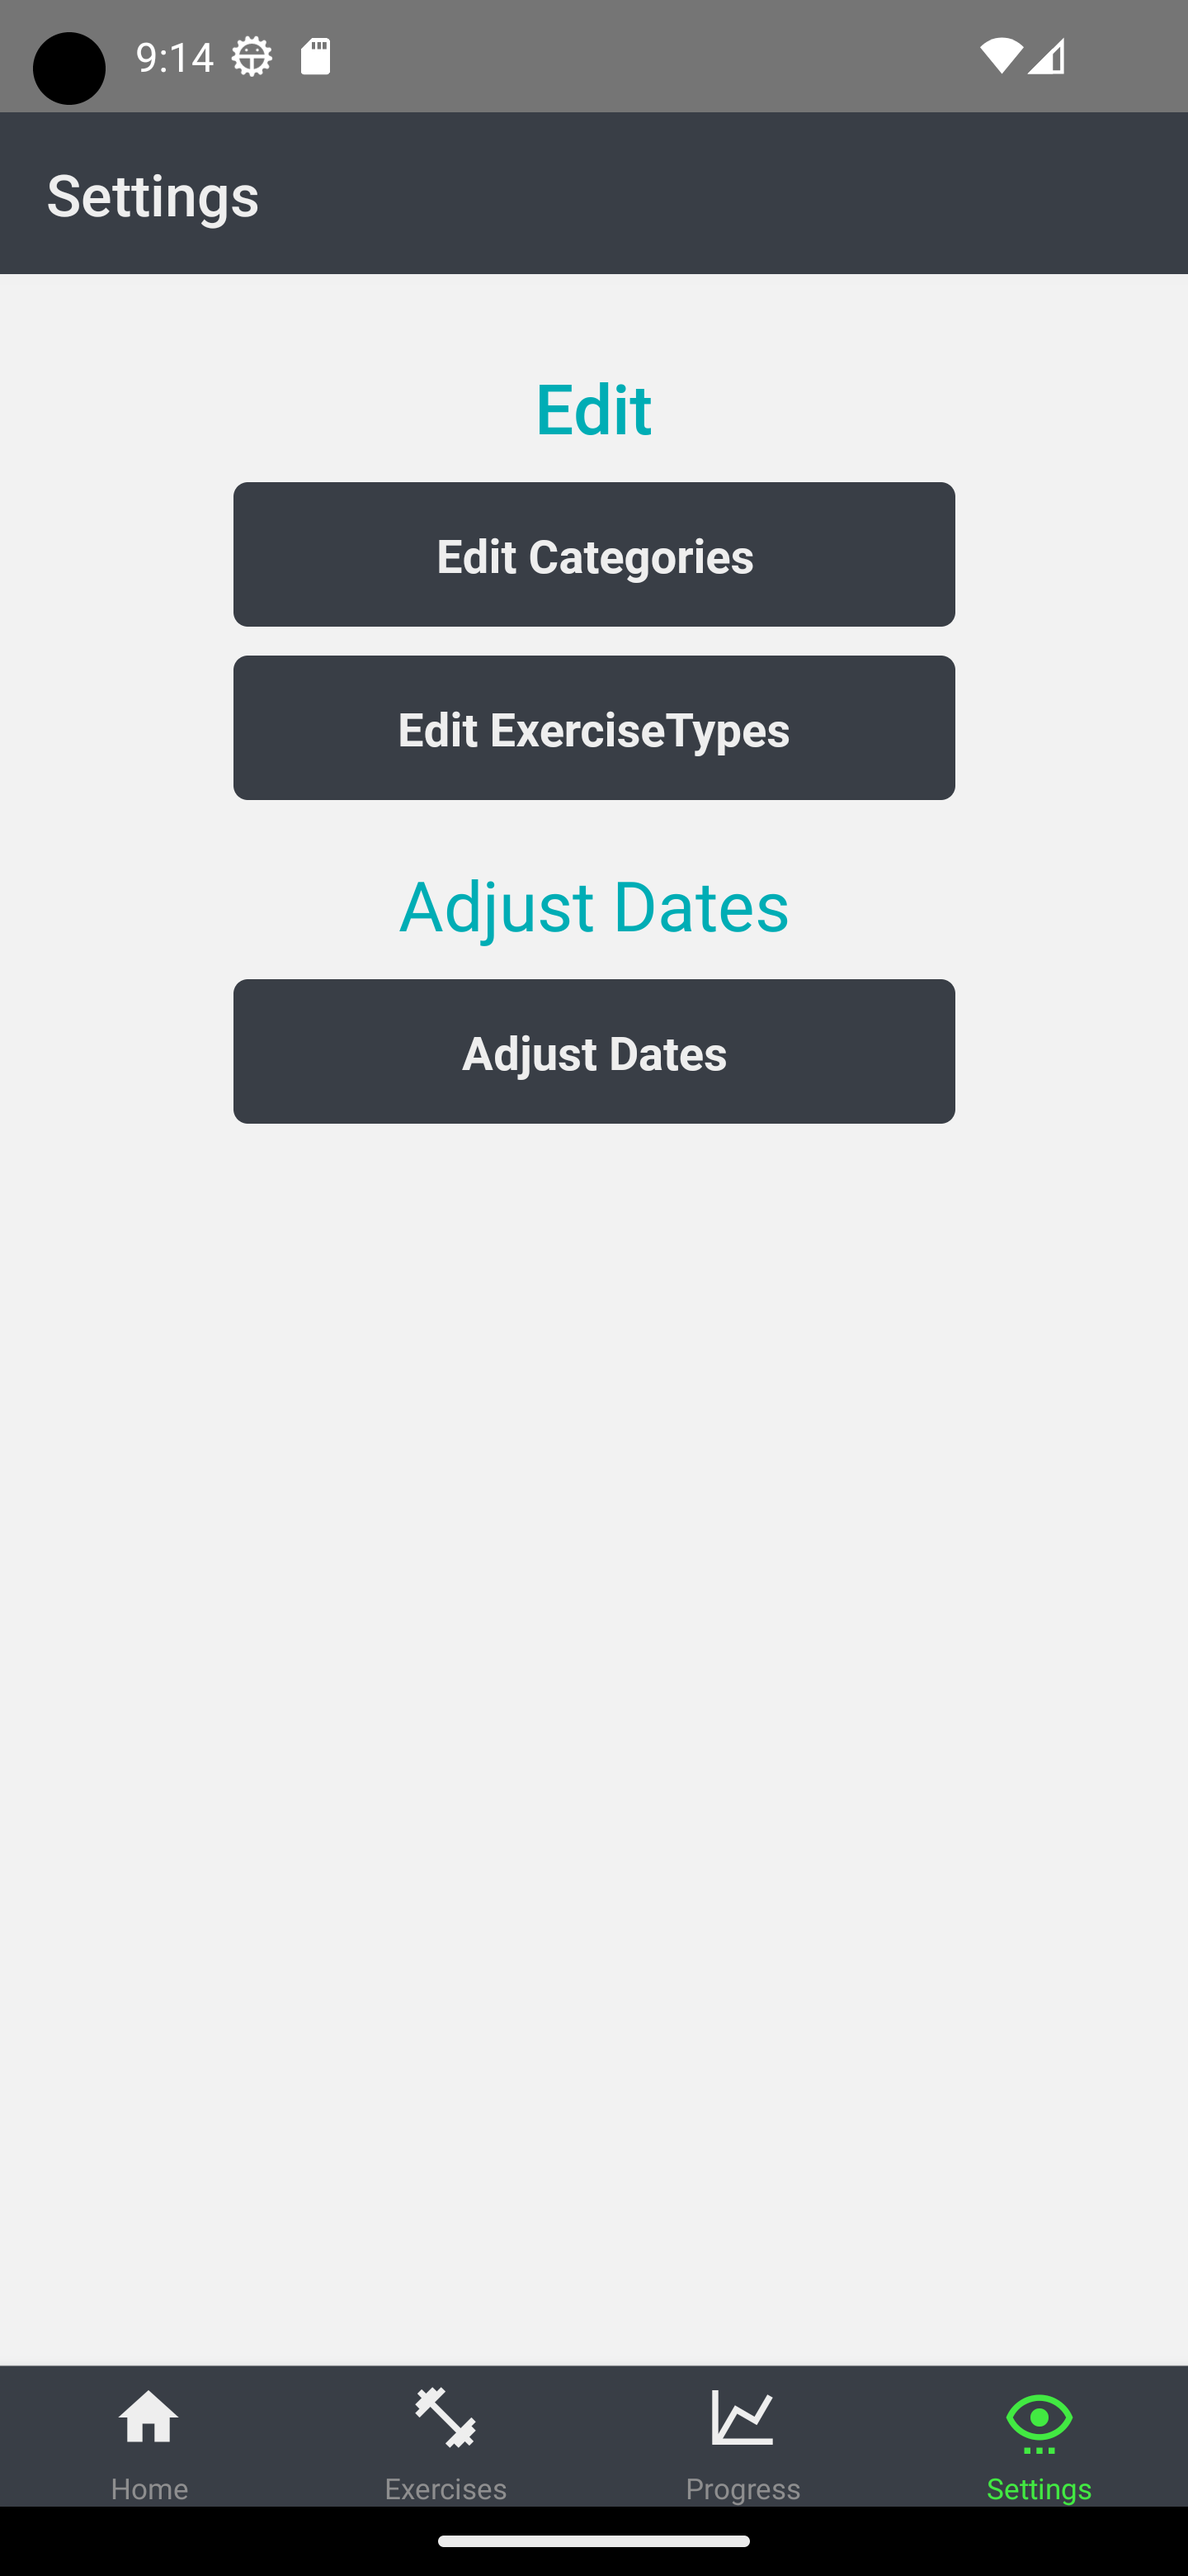
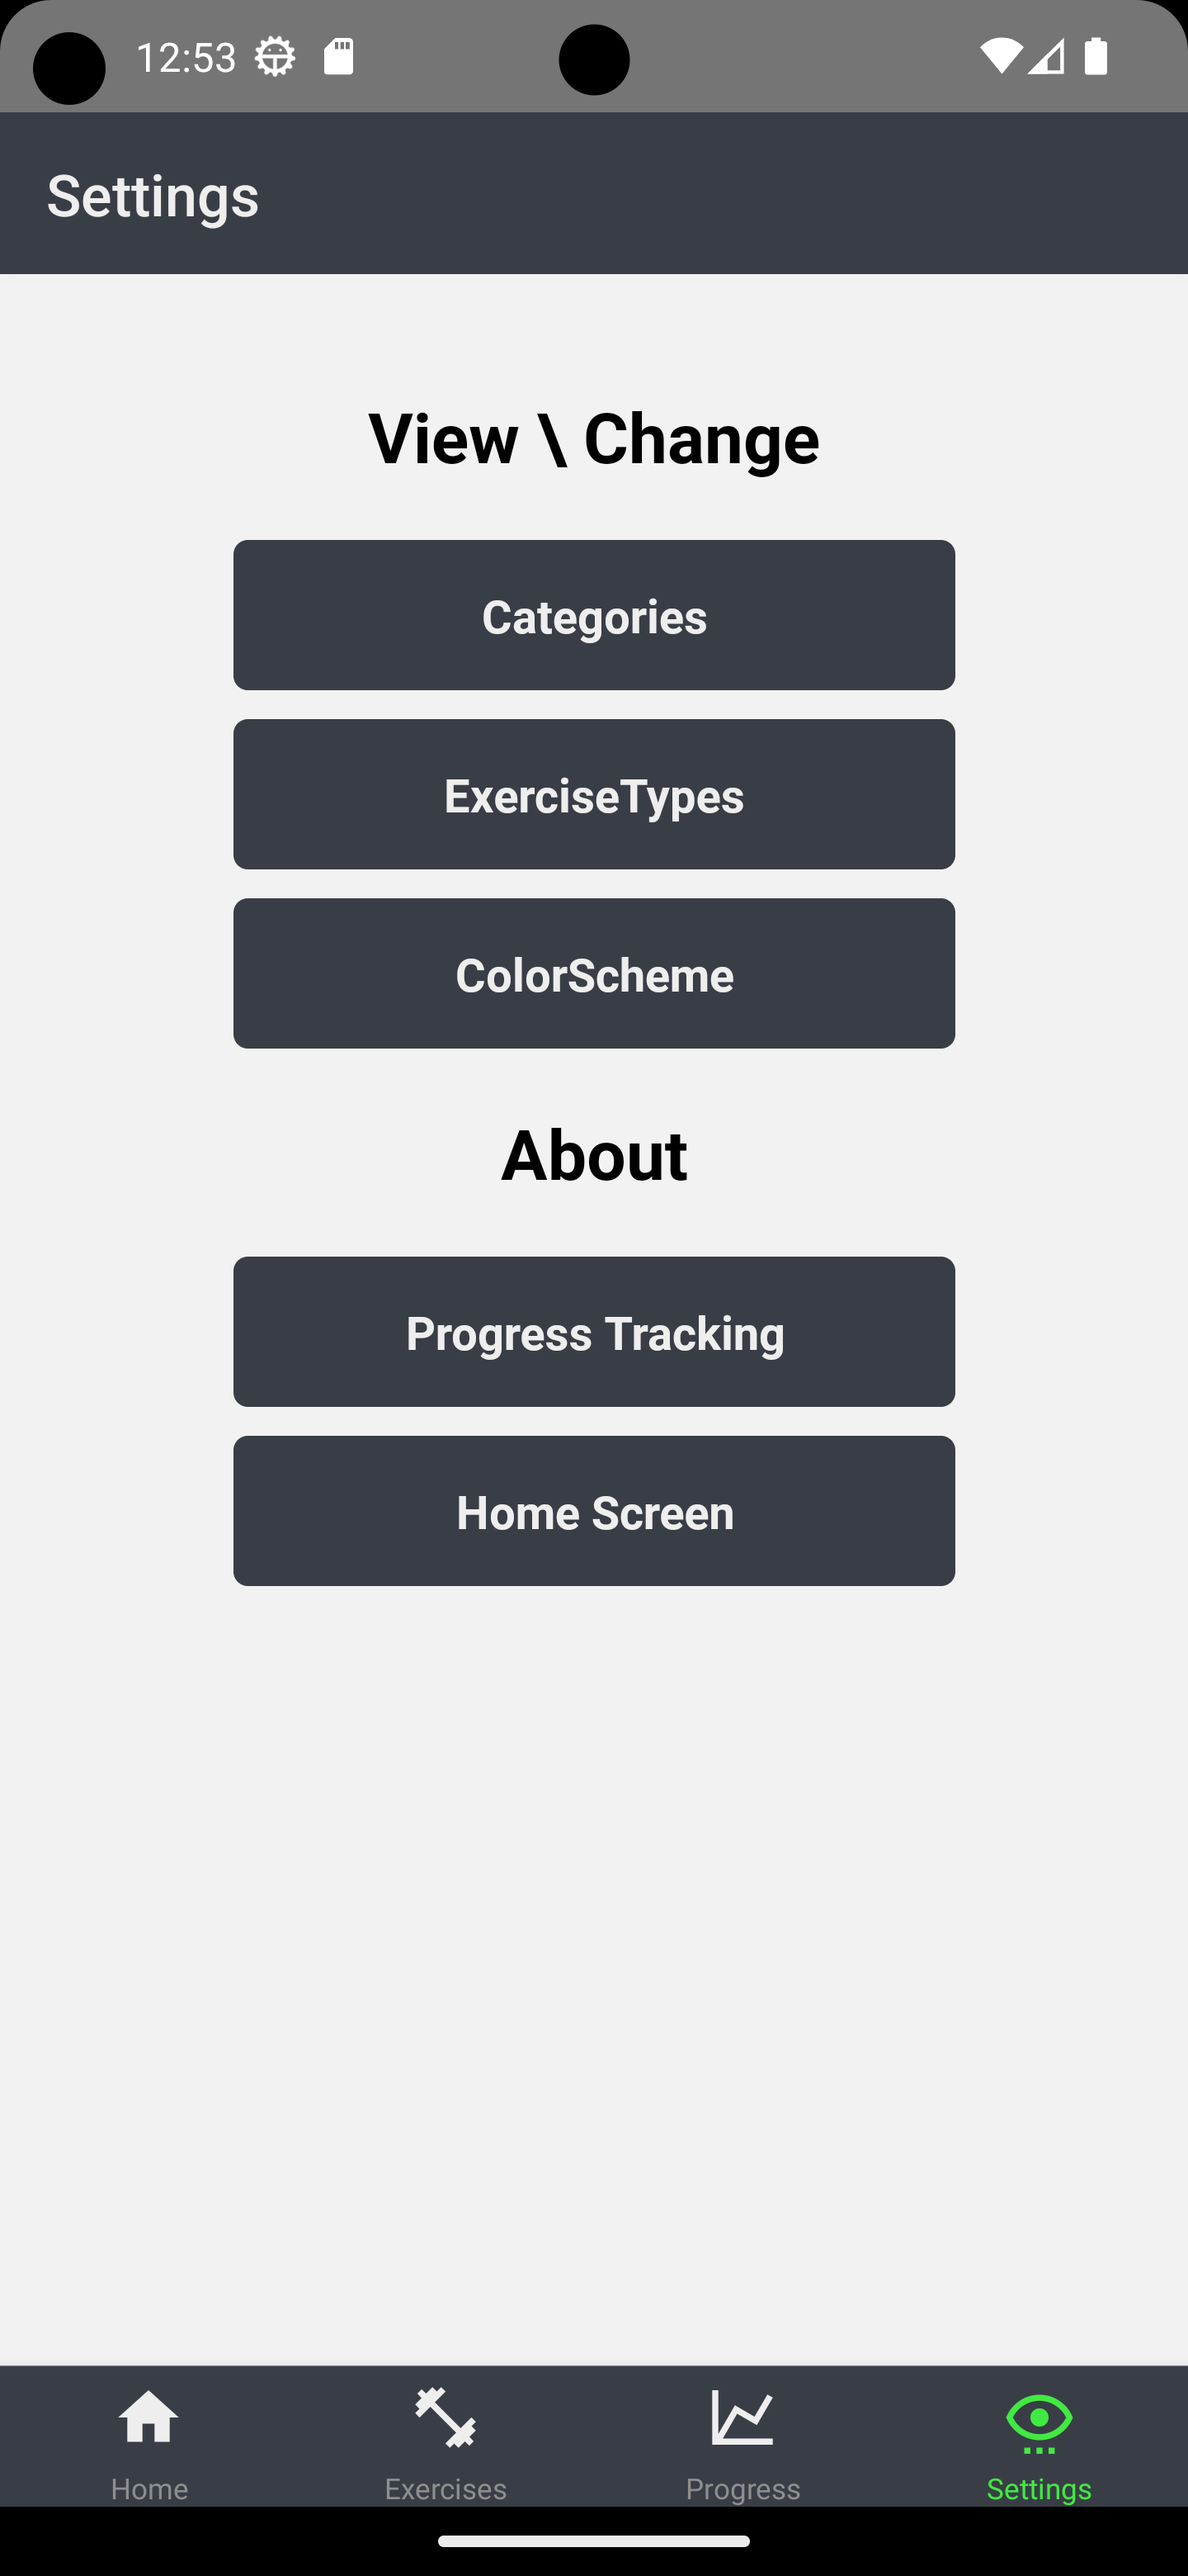
github updates

diff --git a/README.md b/README.md
@@ -25,7 +25,7 @@ Adding an exercise for which there is a plan with the same exercise type will ei
    <img src="images/ProgressFilter.png" alt="ProgressFilter" width="250"/>
    <img src="images/ProgressWeekly.png" alt="ProgressWeekly" width="250"/>
 
-4. Settings - The Settings screen, here you can edit / delete your categories / exercise types
+4. Settings - The Settings screen, here you can edit or delete your categories / exercise types, change colors, read more about the app etc. 
 
    <img src="images/Settings.png" alt="Settings" width="250"/>
    <img src="images/Categories.png" alt="Categories" width="250"/>
